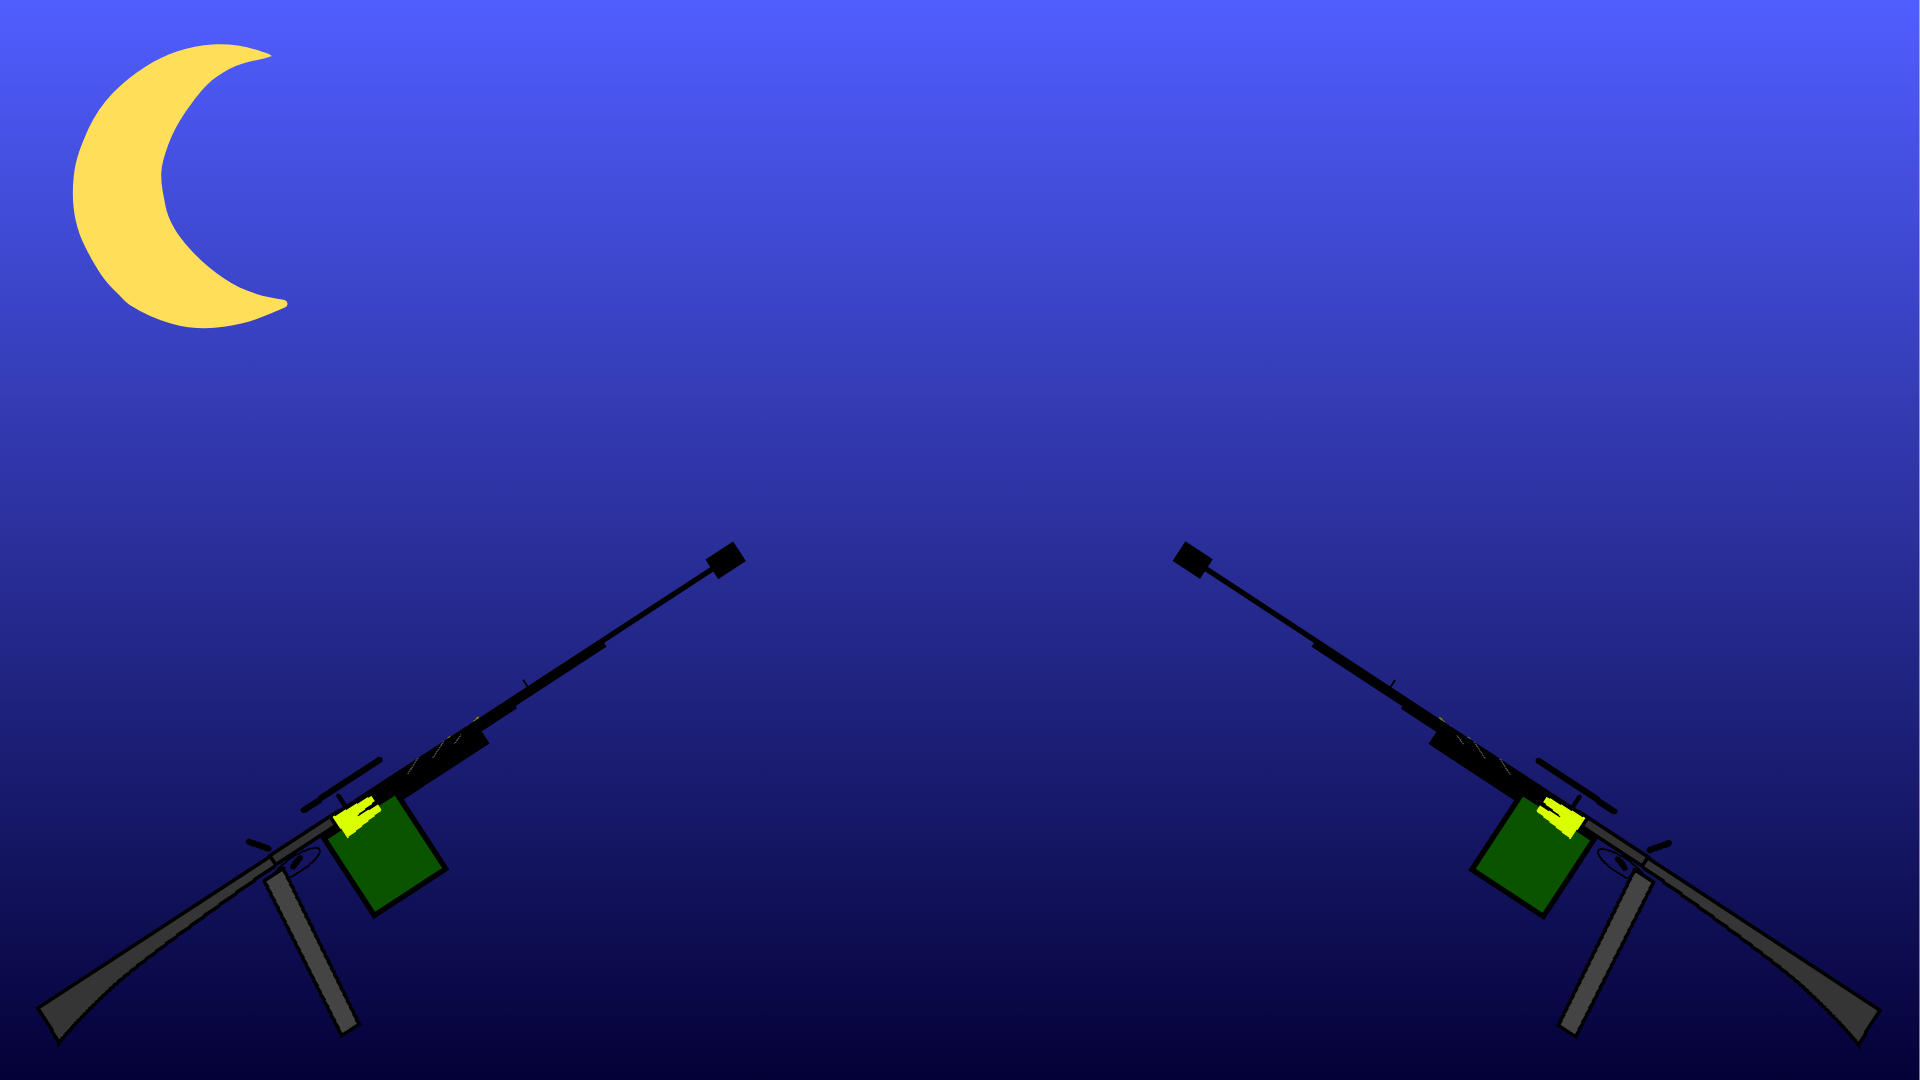
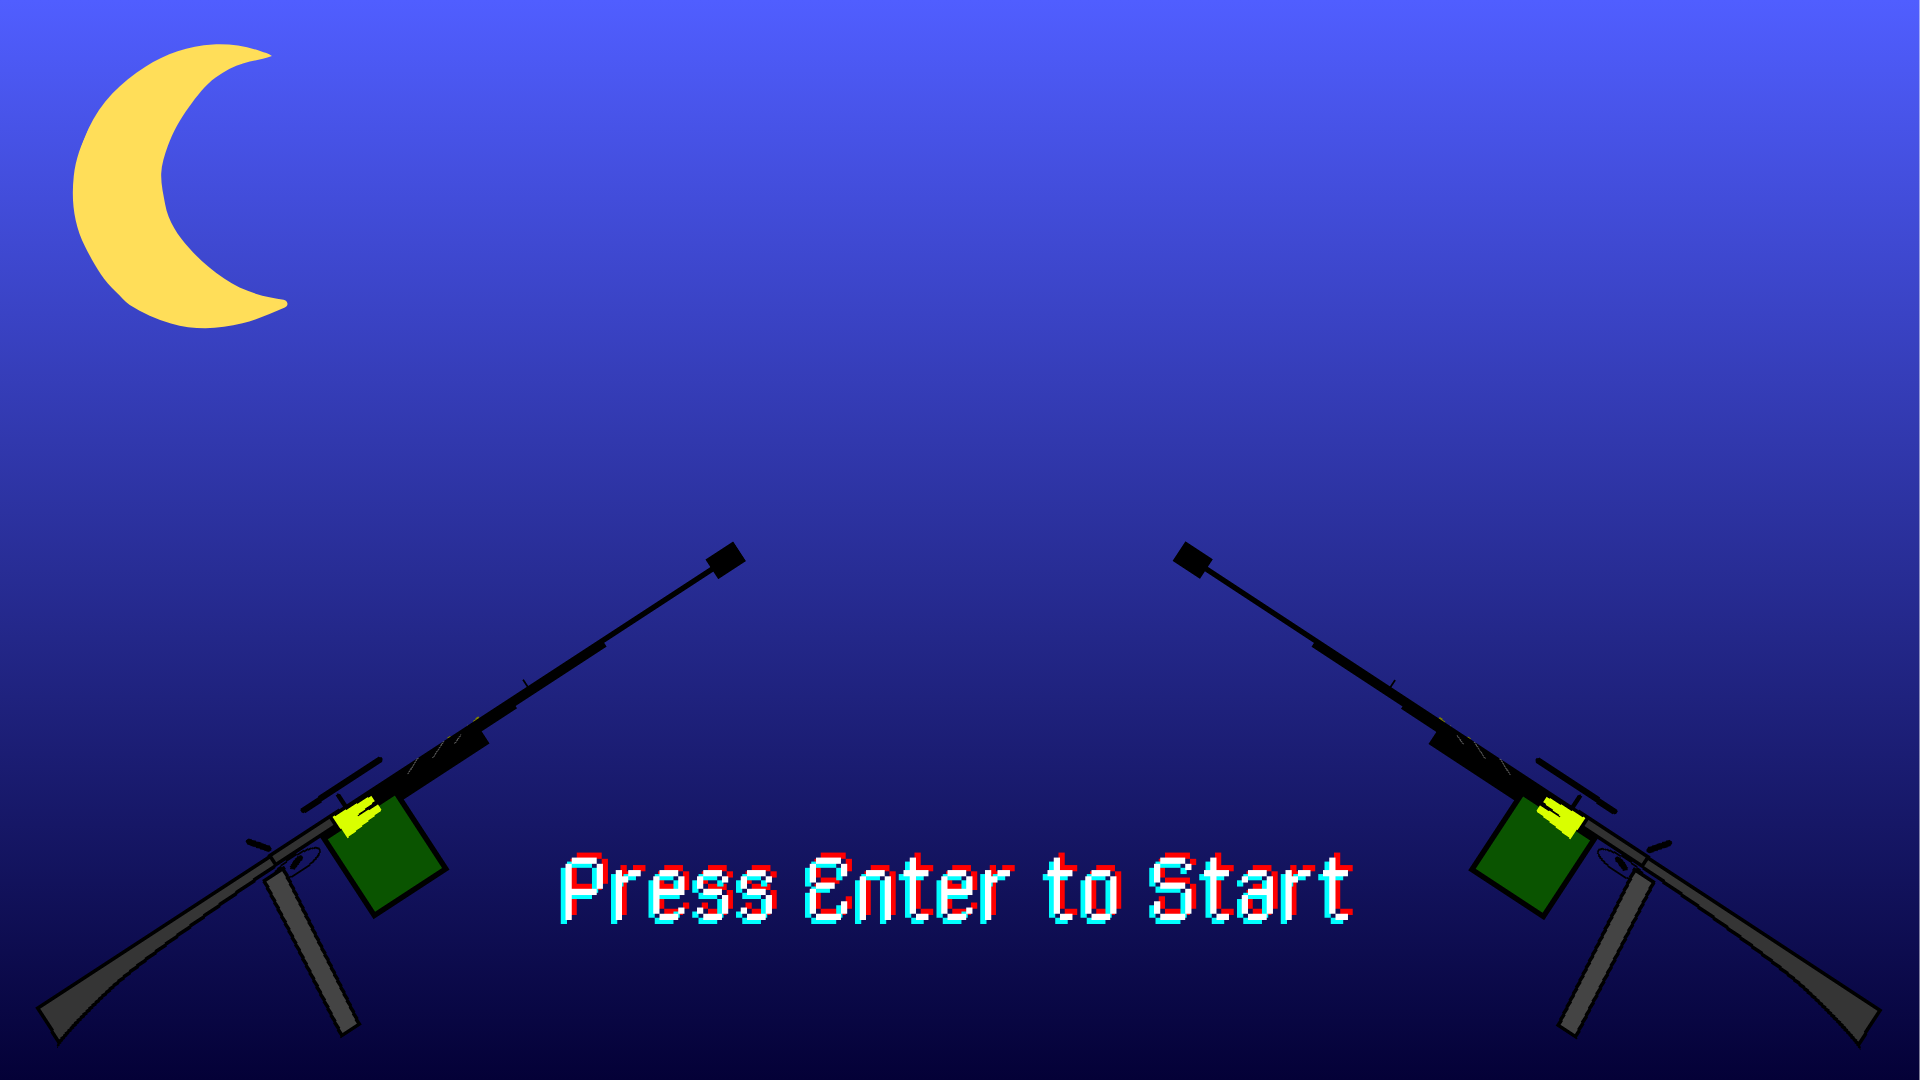
Add files via upload

Changed region(s): [[0.2812, 0.7944, 0.7188, 0.8556]]

diff --git a/script.js b/script.js
@@ -3,8 +3,12 @@ const canvas=document.getElementById("game-window");
 const ctx=canvas.getContext("2d");
 
 //constants for easy use instead of string
+const LEVELSBEATEN="levelsbeaten"
+
 const MENU="menu";
+const LEVELSELECT="levelselect";
 const GAMEPLAY="gameplay";
+
 
 
 //constant image and audios
@@ -12,7 +16,8 @@ const menuAssets={
     "mainmenu":document.getElementById("mainmenu"),
     "menutext":document.getElementById("menutext"),
     "soundon":document.getElementById("soundon"),
-    "soundoff":document.getElementById("soundoff")
+    "soundoff":document.getElementById("soundoff"),
+    "levelselect":document.getElementById("levelselect")
 }
 
 const music={
@@ -27,6 +32,8 @@ var menuTextDelay;
 var menuSound;
 
 var events=[];
+var keys=[];
+
 var gameLoopTimer;
 var state;
 var width=canvas.width;
@@ -70,6 +77,11 @@ function menuTick(){
                 }
             
         }
+        if(events[i].type=="keydown"){
+            if(events[i].details.key=="Enter"){
+                startLevelselect()
+            }
+        }
     }
     events=[]
     
@@ -98,8 +110,12 @@ function menuTick(){
     
 }
 
-function gameplayTick(){
+function levelselectTick(){
+    ctx.drawImage(menuAssets.levelselect,0,0,width,height)
+}
 
+function gameplayTick(){
+    
 }
 
 
@@ -113,6 +129,9 @@ function gameLoop(){
     if(state==MENU){
         menuTick();
     }
+    if(state==LEVELSELECT){
+        levelselectTick();
+    }
     if(state==GAMEPLAY){
         gameplayTick;
     }
@@ -120,15 +139,45 @@ function gameLoop(){
 
 
 function startGame(){
+    
+    startMenu()
+    gameLoopTimer=setInterval(gameLoop,1/60)
+}
+
+function startMenu(){
     state=MENU
     menuTextY=-300
     menuTextSpeedY=0
     menuTextDelay=120;
     menuSound=false;
-    gameLoopTimer=setInterval(gameLoop,1/60)
+}
+
+function startLevelselect(){
+    state=LEVELSELECT;
+    music.menu.pause();
 }
 
 
 startGame()
 
 document.addEventListener("mousedown",function(event){events.push({"type":"mousedown","details":event})})
+
+document.addEventListener("keydown",function(event){
+    events.push({"type":"keydown","details":event})
+    if(!keys.includes(event.key)){
+        keys.push(event.key)
+    }
+    
+
+    })
+
+    document.addEventListener("keyup",function(event){
+        events.push({"type":"keyup","details":event})
+        if(keys.includes(event.key)){
+            if(keys.indexOf(event.key)>-1){
+                keys.splice(keys.indexOf(event.key),1)
+            }
+        }
+        
+    
+        })

diff --git a/index.html b/index.html
@@ -15,6 +15,7 @@
                 <img src="assets/images/menu/text.png" id="menutext">
                 <img src="assets/images/menu/soundon.png" id="soundon">
                 <img src="assets/images/menu/soundoff.png" id="soundoff">
+                <img src="assets/images/menu/levelselect.png" id="levelselect">
             </div>
 
 
